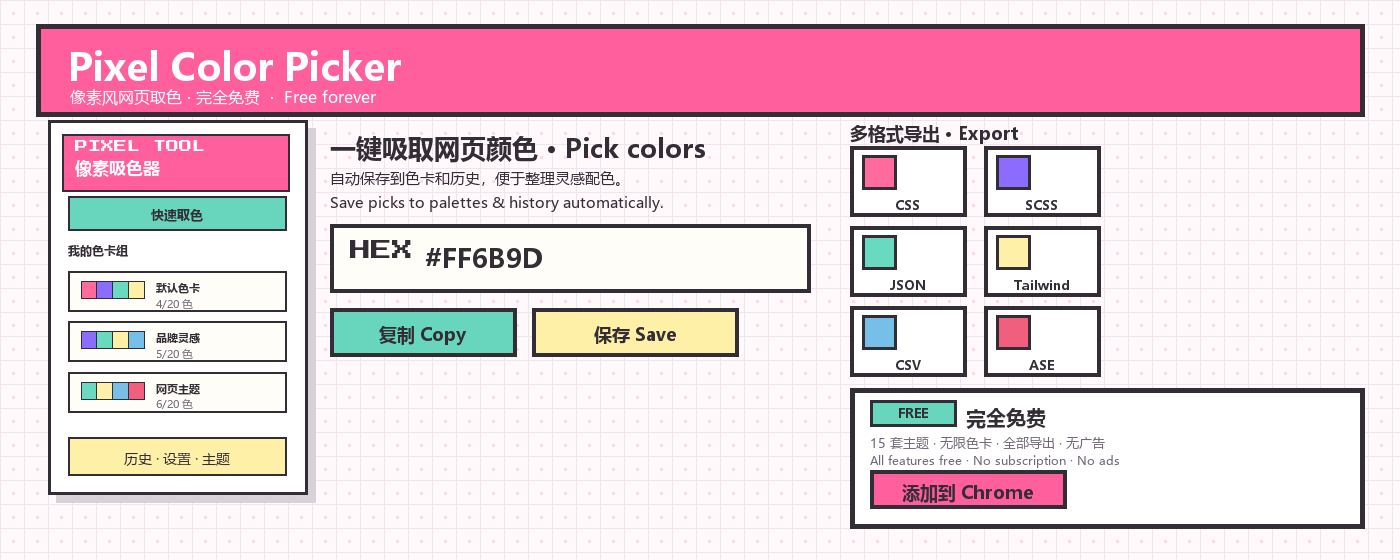
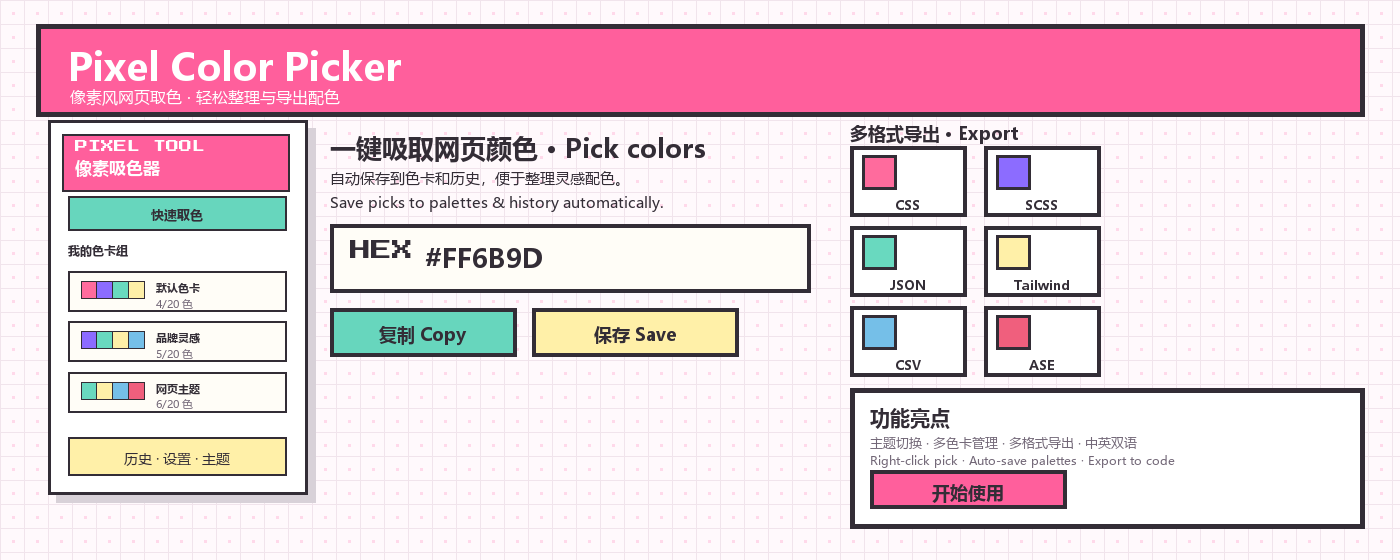
fix(store): remove free/Pro/paywall wording to comply with Chrome Web Store content policy

Changed region(s): [[0.6143, 0.6982, 0.8293, 0.9107], [0.1229, 0.1518, 0.2764, 0.2125]]

diff --git a/options/options.js b/options/options.js
@@ -688,13 +688,13 @@ class OptionsManager {
         version: 'v1.1.0',
         items: language === 'en'
           ? [
-              { kind: 'feat', text: 'Completely free - removed Pro plan, all themes & unlimited palettes open to everyone' },
+              { kind: 'feat', text: 'Removed Pro plan gating, all themes and unlimited palettes available to everyone' },
               { kind: 'feat', text: 'Optional tips - WeChat QR / PayPal donation links' },
               { kind: 'feat', text: 'Zero remote - removed all host_permissions' },
               { kind: 'chore', text: 'Removed 18+ Pro-related i18n keys and 4 Pro-limit intercepts' }
             ]
           : [
-              { kind: 'feat', text: '完全免费 - 移除 Pro 付费模式，所有主题、自定义主题、无限色卡对所有用户开放' },
+              { kind: 'feat', text: '移除 Pro 限制，所有主题与无限色卡向所有用户开放' },
               { kind: 'feat', text: '新增打赏 - 微信赞赏码 / PayPal 付款链接（可选）' },
               { kind: 'feat', text: '零远程 - 删除所有 host_permissions' },
               { kind: 'chore', text: '删除 18+ Pro 相关 i18n 字段与 4 处 Pro 限制拦截' }

diff --git a/scripts/generate-store-promo.py b/scripts/generate-store-promo.py
@@ -183,7 +183,7 @@ def small_promo():
         ("网页吸色", "One-click pick"),
         ("色卡管理", "Palettes & history"),
         ("多格式导出", "CSS / JSON / PNG / CSV"),
-        ("完全免费", "Free · 15 themes"),
+        ("中英双语", "Chinese / English UI"),
     ]
     for i, (title, desc) in enumerate(features):
         fy = 76 + i * 47
@@ -208,7 +208,7 @@ def large_promo():
     text(draw, (68, 40), "Pixel Color Picker", fill="white", f=font(38, bold=True))
     # subtitle: clear gap from title, well within banner bounds
     text(draw, (70, 86),
-         "像素风网页取色 · 完全免费  ·  Free forever",
+         "像素风网页取色 · 轻松整理与导出配色",
          fill="white", f=font(16))
 
     # ── Content area: 3 logical columns ─────────────────────
@@ -267,33 +267,30 @@ def large_promo():
         rect(draw, (ex + 12, ey + 9, ex + 46, ey + 43), color, width=3)
         text(draw, (ex + ew // 2, ey + 50), label, f=font(13, bold=True), anchor="ma")
 
-    # Free block — replaces the old Pro CTA, with safe bottom margin
-    free_x, free_y = 850, 388
-    rect(draw, (free_x, free_y, 1364, 528), COLORS["white"], width=5)
+    # Feature highlight block — replaces the old Pro/Free CTA
+    feat_x, feat_y = 850, 388
+    rect(draw, (feat_x, feat_y, 1364, 528), COLORS["white"], width=5)
 
-    # FREE badge + title
-    rect(draw, (free_x + 20, free_y + 12, free_x + 106, free_y + 38), COLORS["mint"], width=3)
-    text(draw, (free_x + 63, free_y + 16), "FREE",
-         f=font(13, bold=True), anchor="ma")
-    text(draw, (free_x + 116, free_y + 15), "完全免费", f=font(20, bold=True))
+    # Title
+    text(draw, (feat_x + 20, feat_y + 15), "功能亮点", f=font(20, bold=True))
 
     # Features list
-    text(draw, (free_x + 20, free_y + 46),
-         "15 套主题 · 无限色卡 · 全部导出 · 无广告",
+    text(draw, (feat_x + 20, feat_y + 46),
+         "主题切换 · 多色卡管理 · 多格式导出 · 中英双语",
          fill=COLORS["soft"], f=font(13))
 
-    # Free note
-    text(draw, (free_x + 20, free_y + 64),
-         "All features free · No subscription · No ads",
+    # Feature note
+    text(draw, (feat_x + 20, feat_y + 64),
+         "Right-click pick · Auto-save palettes · Export to code",
          fill=COLORS["soft"], f=font(12))
 
     # CTA button — pink (bottom = 388+82+38 = 508, well within 560)
     cta_w = 196
     cta_h = 38
-    cta_x = free_x + 20
-    cta_y = free_y + 82
+    cta_x = feat_x + 20
+    cta_y = feat_y + 82
     rect(draw, (cta_x, cta_y, cta_x + cta_w, cta_y + cta_h), COLORS["pink"], width=4)
-    text(draw, (cta_x + cta_w // 2, cta_y + 9), "添加到 Chrome",
+    text(draw, (cta_x + cta_w // 2, cta_y + 9), "开始使用",
          f=font(18, bold=True), anchor="ma")
 
     img.save(OUT / "promo-large-1400x560.png")

diff --git a/scripts/generate-store-screenshots.py b/scripts/generate-store-screenshots.py
@@ -50,11 +50,11 @@ TEXTS = {
         "s3_desc": "一键导出常用格式，方便放进设计系统、前端项目或团队文档。",
         "s3_cards": [("CSS", "变量格式"), ("SCSS", "$ 变量"), ("JSON", "可再次导入"),
                      ("Tailwind", "配置片段"), ("CSV", "表格数据"), ("ASE", "PS 色板")],
-        "s4_hero": "永久免费",
-        "s4_sub": "无订阅 · 无广告 · 全部功能开放",
-        "s4_free_title": "完全免费",
-        "s4_free_desc": "已移除全部付费墙：15 套主题、无限色卡、自定义主题和所有导出格式对每位用户开放。",
-        "s4_free_cta": "免费使用",
+        "s4_hero": "本地优先",
+        "s4_sub": "色卡与历史仅保存在浏览器",
+        "s4_free_title": "数据本地存储",
+        "s4_free_desc": "你的色卡、取色历史和主题设置仅保存在浏览器本地存储中，不上传服务器。",
+        "s4_free_cta": "开始使用",
         "s4_high": "亮点功能",
         "s4_feats": [("右键快速取色", "页面右键一键吸色并存卡"),
                      ("多格式导出", "CSS / JSON / PNG / CSV / ASE"),
@@ -92,11 +92,11 @@ TEXTS = {
         "s3_desc": "Export in common formats for design systems, front-end projects and team docs.",
         "s3_cards": [("CSS", "CSS variables"), ("SCSS", "$ variables"), ("JSON", "Re-import"),
                      ("Tailwind", "Config snippet"), ("CSV", "CSV table"), ("ASE", "Swatches")],
-        "s4_hero": "Free Forever",
-        "s4_sub": "No subscription · No ads · All features",
-        "s4_free_title": "Completely free",
-        "s4_free_desc": "All paywalls removed: 15 themes, unlimited palettes, custom themes and every export format are open to everyone.",
-        "s4_free_cta": "Use it free",
+        "s4_hero": "Local-first",
+        "s4_sub": "Palettes and history stay in your browser",
+        "s4_free_title": "Stored locally",
+        "s4_free_desc": "Your palettes, color history and theme settings are saved only in your browser's local storage. Nothing is uploaded.",
+        "s4_free_cta": "Get started",
         "s4_high": "Highlights",
         "s4_feats": [("Context-menu pick", "Pick & save from the right-click menu"),
                      ("Multi-format export", "CSS / JSON / PNG / CSV / ASE"),
@@ -314,7 +314,7 @@ def screenshot_4(t, outdir):
         rect(draw, (736, yy, 1164, yy + 56), COLORS["panel"], width=3)
         text(draw, (760, yy + 8), t1, f=font(18, bold=True))
         text(draw, (760, yy + 32), t2, fill=COLORS["soft"], f=F["tiny"])
-    img.save(outdir / "screenshot-04-free.png")
+    img.save(outdir / "screenshot-04-local.png")
 
 
 def screenshot_5(t, outdir):

diff --git a/STORE_SUBMISSION.md b/STORE_SUBMISSION.md
@@ -45,7 +45,7 @@ Features:
 - Switch between Chinese and English
 - Choose from playful pixel-style themes
 
-The first release is free. Pro features are prepared in the interface but payment will be enabled in a later update.
+The first release is open to all users. Payment features are prepared in the interface but will be enabled in a later update.
 
 Category:
 Developer Tools or Productivity
